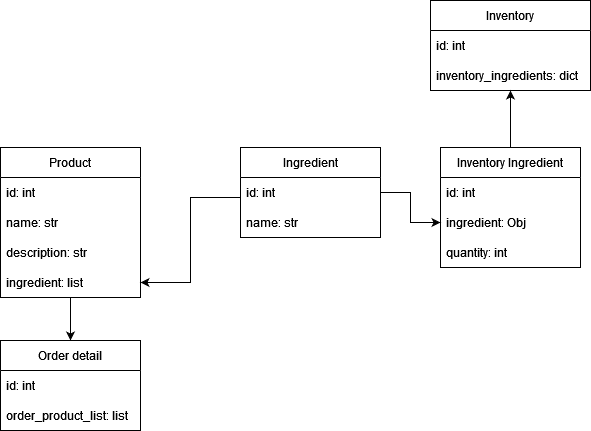
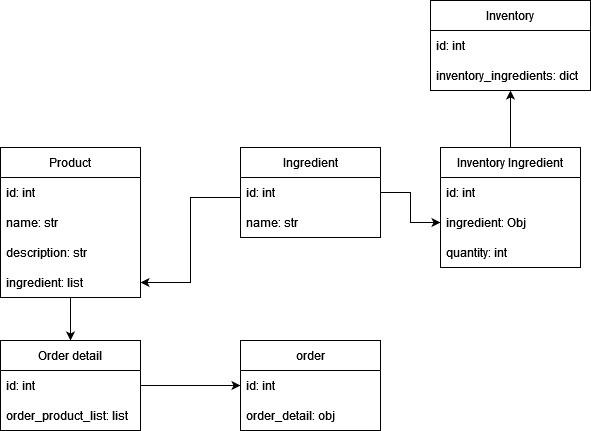
Adding order description to readme

Changed region(s): [[0.3959, 0.935, 0.6701, 1.0], [0.3655, 0.8445, 0.4873, 0.9049], [0.4873, 0.8144, 0.5482, 0.8445]]

diff --git a/README.md b/README.md
@@ -11,9 +11,10 @@
 * Inventory Ingredient Entity - This entity will be used to store the Ingredients and its quantity
 * Inventory Entity - This entity will store all the items and their quantities
 * Order details Entity - This entity will store all the details of the order .
+* Order entity - This order will be used to process the client order.
 
 
 UML Diagram:
 
-![UML](https://github.com/eapg/EA_RESTAURANT/blob/feature/order-detail-entity/UML_Diagram.png?raw=true)
+![UML](https://github.com/eapg/EA_RESTAURANT/blob/feature/order-entity/UML_Diagram.png?raw=true)
 
